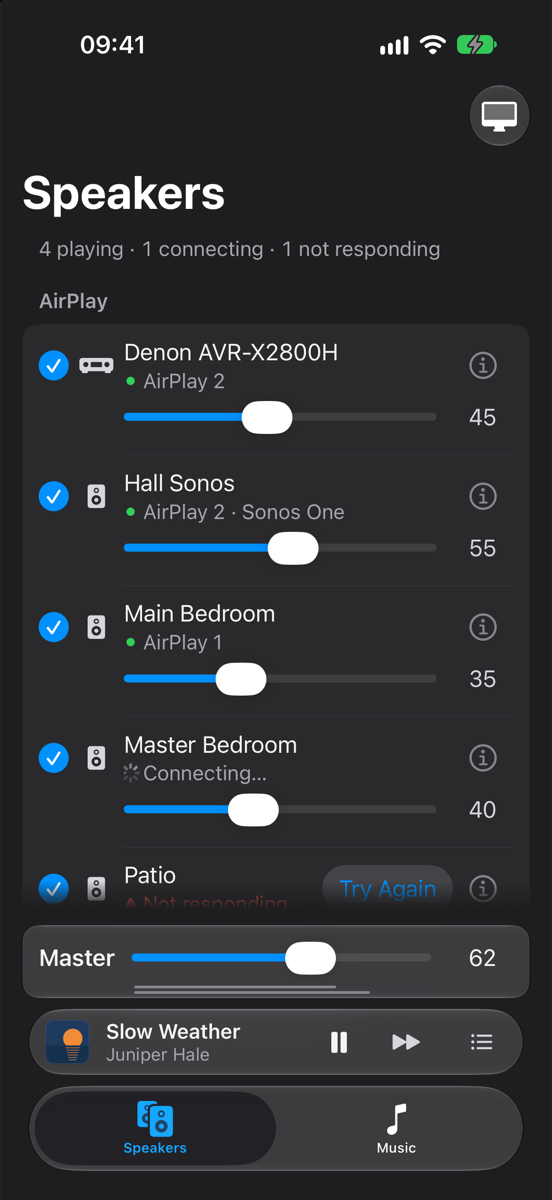
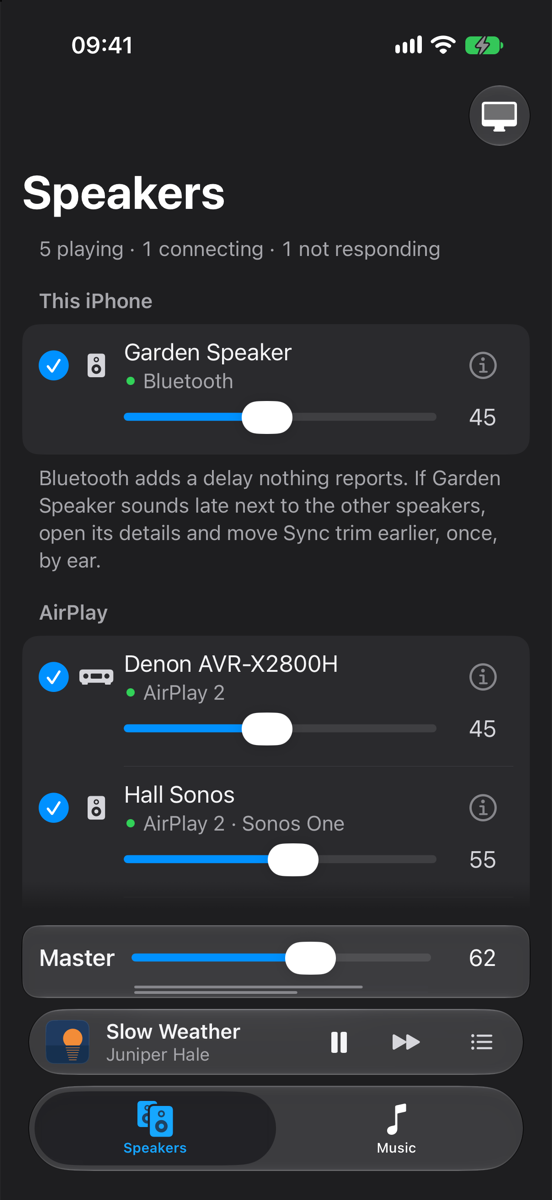
Refresh the README screenshots and add CLAUDE.md
The screenshots now show This iPhone as a speaker, catalog search and the
group of speakers that are not available to you. CLAUDE.md records the rule
that the README and its screenshots are updated with every visible change,
and how the screenshots are rendered.

diff --git a/CLAUDE.md b/CLAUDE.md
@@ -1,0 +1,37 @@
+# Multicast: notes for Claude
+
+## Keep the README and its screenshots current
+
+Any change that alters what a person sees or does in the apps (a screen, a control, a row, wording, a new
+feature, a changed behaviour or limitation) is not finished until the README matches it. Before calling such
+work done, and before it is merged into main:
+
+1. **Text.** Update the sections of `README.md` the change touches ("What it does", the feature's own section,
+   "Status and limitations", the command-line examples). Say plainly what was verified live and what was not.
+2. **Screenshots.** The images in `docs/images/` are the apps' own review renders with sample data, never
+   captures of a real library or real speakers. If the change shows on a screen that has a screenshot, or adds a
+   screen worth showing, render them again and replace the files (same names, so the README keeps working):
+   - **Mac:** `Multicast.app/Contents/MacOS/Multicast --snapshot <dir>` writes every scene in light and dark
+     (`Apps/Mac/Snapshot/Snapshotter.swift`). The README uses the dark renders, scaled to 1600 px wide
+     (`sips -Z 1600`): `main-iphone-as-speaker` → `mac-library-speakers.png`, `main-up-next` →
+     `mac-up-next.png`, `main-search-with-catalog` → `mac-search.png`.
+   - **iPhone:** build "Multicast Remote" for the simulator, launch with `-MCScene <name> -MCAppearance dark`
+     (`Apps/iOS/Support/RemoteScenes.swift`), status bar overridden to 09:41, `xcrun simctl io <device>
+     screenshot`, scaled to 1200 px tall (`sips -Z 1200`): `phone-speaker` → `iphone-speakers.png`,
+     `now-playing`, `playlists`, `up-next` → `iphone-<name>.png`. Use a simulator of your own
+     (`xcrun simctl create`), because other sessions boot and shut down the shared ones.
+3. **New states get a review scene.** A new screen or state gets a mock scene (Mac `MockScene`, iPhone
+   `RemoteScene`) so it can be rendered without real hardware, and the README lists the scene name.
+4. **Look at the result.** Open each replaced image and check it shows the change and nothing private.
+
+## This repository is public
+
+Never put a real name, email address, host name, signing team id, device id or MAC address, serial number, key
+or token, LAN IP address, real room or speaker name, or a real playlist or song name in a tracked file, a
+screenshot or a commit message. Sample data only ("Hall Sonos", "Main Bedroom", "Slow Weather"). Per-machine
+signing lives in the git-ignored `Apps/Config/Local.xcconfig`.
+
+## Running the Mac app
+
+Run it with `Apps/Scripts/run-mac.sh`, which installs to `/Applications` and opens it from there: macOS ties
+Local Network access to where the app lives, so a copy run from a build folder cannot see speakers.

diff --git a/README.md b/README.md
@@ -9,7 +9,7 @@ outputs. It is what iTunes for Windows used to do with several AirPlay speakers,
 Multicast Remote, plays the part of the old iTunes Remote.
 
 <p align="center">
-  <img src="docs/images/mac-library-speakers.png" width="800" alt="The Mac window: the Apple Music library of pinned playlists and playlists on the left, the speakers with per-speaker volumes on the right, and the player in the title bar">
+  <img src="docs/images/mac-library-speakers.png" width="800" alt="The Mac window: the Apple Music library of pinned playlists and playlists on the left, the speakers with per-speaker volumes on the right, including a paired iPhone playing as a speaker, and the player in the title bar">
 </p>
 
 ## What it does
@@ -38,10 +38,17 @@ Up Next slides in beside the library. It is the hub's queue, so the Mac and ever
   <img src="docs/images/mac-up-next.png" width="800" alt="The Mac window with Up Next open between the library and the speakers">
 </p>
 
+Search covers your library and the Apple Music catalog. Speakers that only their owner can play to are listed
+apart, under "Not available to you".
+
+<p align="center">
+  <img src="docs/images/mac-search.png" width="800" alt="The Mac window with search results: songs from the library, then an Apple Music section of catalog songs; the speakers list ends with a group of speakers that are not available to you">
+</p>
+
 The iPhone remote: speakers, now playing, the library and Up Next.
 
 <p align="center">
-  <img src="docs/images/iphone-speakers.png" width="200" alt="iPhone: the speakers list with per-speaker volumes and the master volume">
+  <img src="docs/images/iphone-speakers.png" width="200" alt="iPhone: the speakers list, starting with This iPhone playing through a Bluetooth speaker, with per-speaker volumes and the master volume">
   <img src="docs/images/iphone-now-playing.png" width="200" alt="iPhone: now playing, with transport, volume, Shuffle and the speakers button">
   <img src="docs/images/iphone-playlists.png" width="200" alt="iPhone: the library with pinned playlists and playlists">
   <img src="docs/images/iphone-up-next.png" width="200" alt="iPhone: the Up Next queue with Shuffle and Edit">
